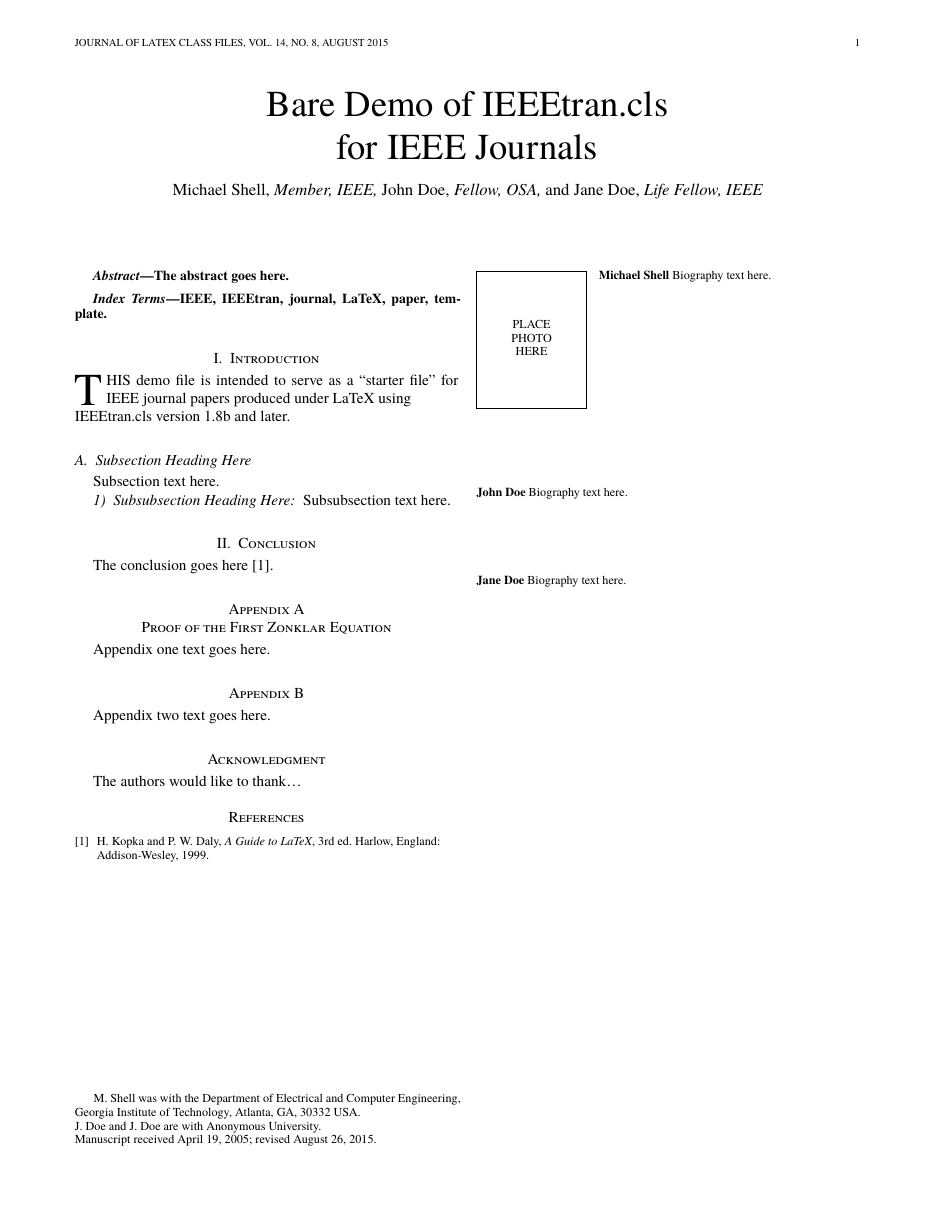
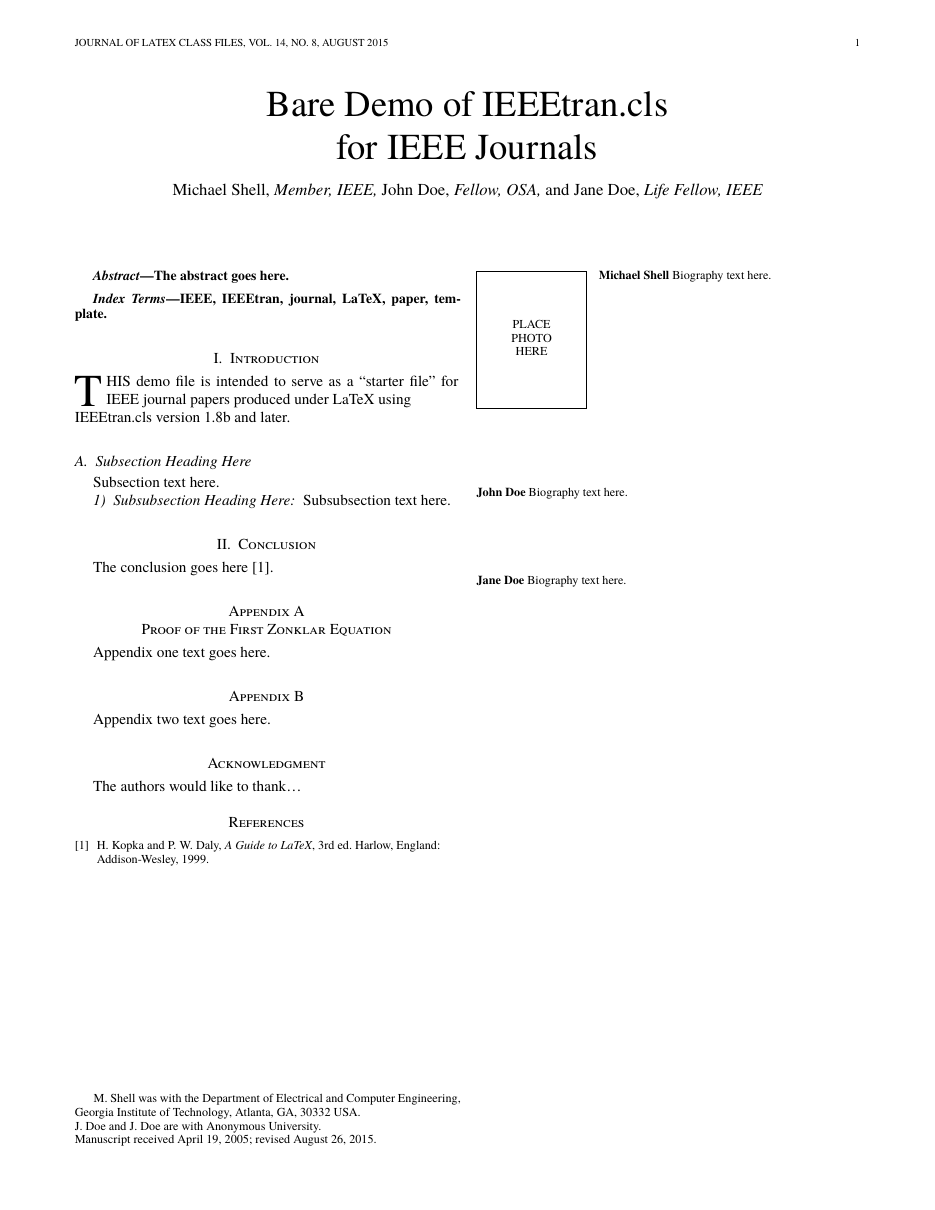
fix: space below level-one headings, closing the last inexact landmark
The journal drop cap sat 1pt above the reference and had done for a long time.
It was not the cap. The space below a level-one heading was 1pt short in both
Times modes, so the whole first paragraph sat high and the cap went with it. The
class says 0.7ex; 0.8ex matches both modes.

Ruled out first, in order: the drop cap itself, by measuring a plain paragraph
after the heading and getting the same gap; and parstart, by comparing with and
without it. Only then was the heading implicated.

The checks did not catch this because they assert where headings sit, never
where the text after them starts. Both Times modes now check the first body line
after the first section, which is what would have caught it.

The bibliography heading gap is added to the same below-spacing, so the two were
recalibrated together: 0.25 baselineskip rather than the class's 0.3 now that
the heading's own spacing is right.

Every landmark asserted anywhere now matches its reference exactly.

Changed region(s): [[0.093, 0.4281, 0.4652, 0.7339], [0.093, 0.3058, 0.4652, 0.3975], [0.3102, 0.4281, 0.3412, 0.4587]]

diff --git a/docs/known-gaps.md b/docs/known-gaps.md
@@ -17,8 +17,14 @@ Nothing. Every mode now has a reference render to check against, including A4,
 
 ## Measured differences that remain
 
-**The journal drop cap is 1pt above the reference**, 265 against 266. The only
-landmark in any mode that is not exact.
+None. Every landmark asserted by `scripts/check.sh` matches its reference
+exactly.
+
+The journal drop cap was 1pt out for a long time. It turned out not to be the
+cap at all: the space below a level-one heading was 1pt short in both Times
+modes, so the whole first paragraph sat high and the cap with it. The class says
+0.7ex; 0.8ex matches. The checks had asserted where headings sit but not where
+the text after them starts, which is why it survived so long.
 
 Computer Society heading spacing was previously off by 8pt after the first
 section and about 3pt per heading after that. The class's stated skips carried

diff --git a/README.md b/README.md
@@ -210,8 +210,9 @@ at `(3)` afterwards. References follow suit.
 | `ieee-compsoc` | `bare_jrnl_compsoc.tex` |
 | `ieee-compsoc-conference` | `bare_conf_compsoc.tex` |
 
-All on US Letter and A4. Every landmark matches its reference exactly, with two
-exceptions noted in [docs/known-gaps.md](docs/known-gaps.md).
+All on US Letter and A4, plus `technote` and `peerreview` as arguments to
+`ieee-journal`. Every asserted landmark matches its reference exactly; what the
+port does not do, and why, is in [docs/known-gaps.md](docs/known-gaps.md).
 
 `peerreview` and `technote` are arguments to `ieee-journal`, and are verified the
 same way against `bare_jrnl.tex` compiled with each option.
